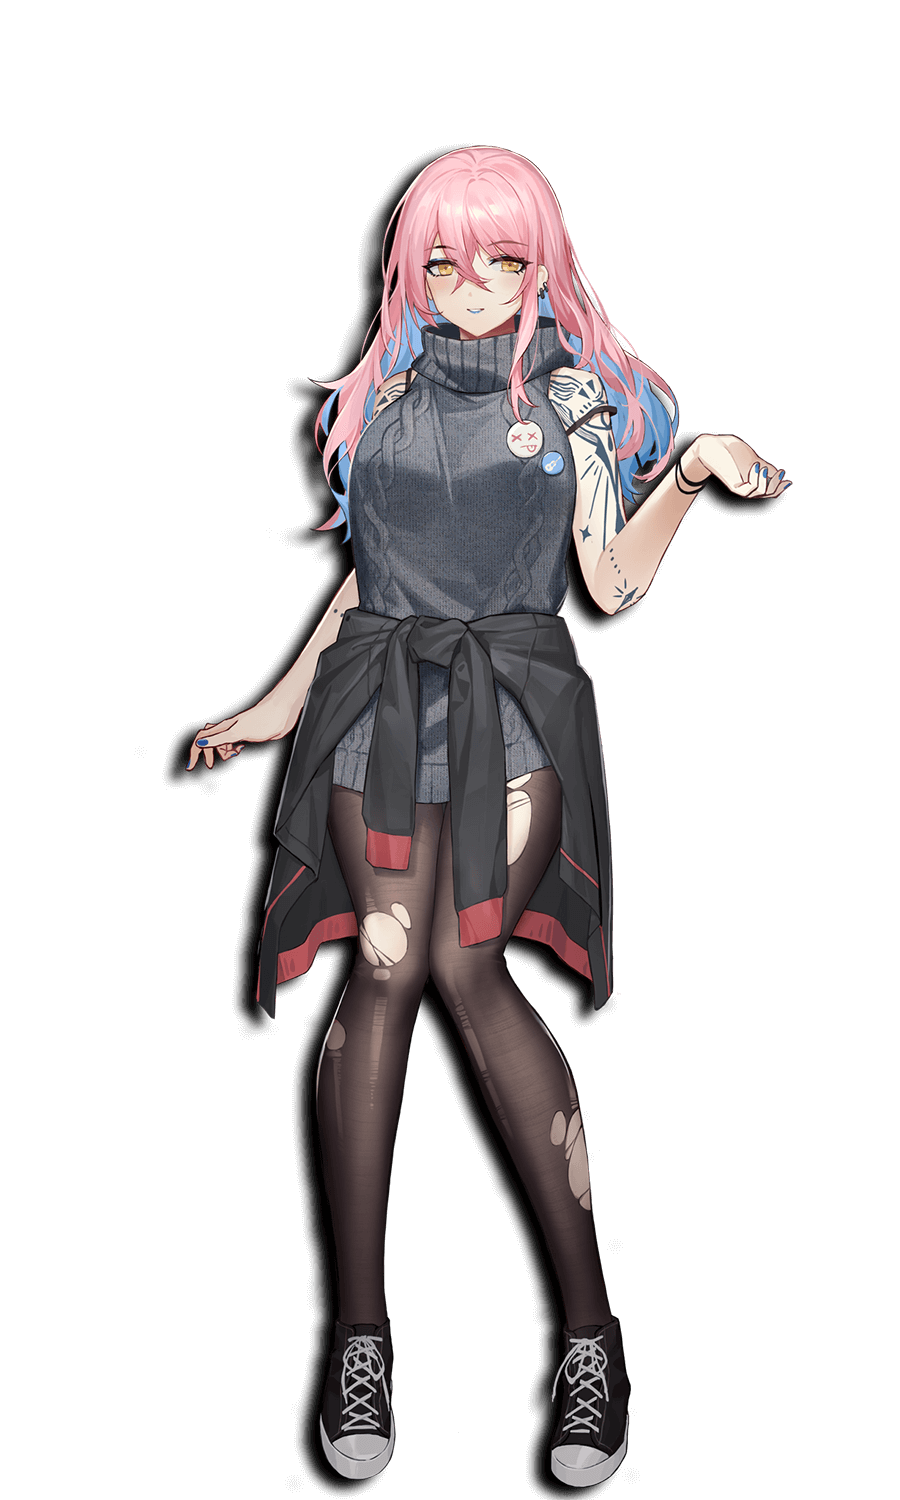
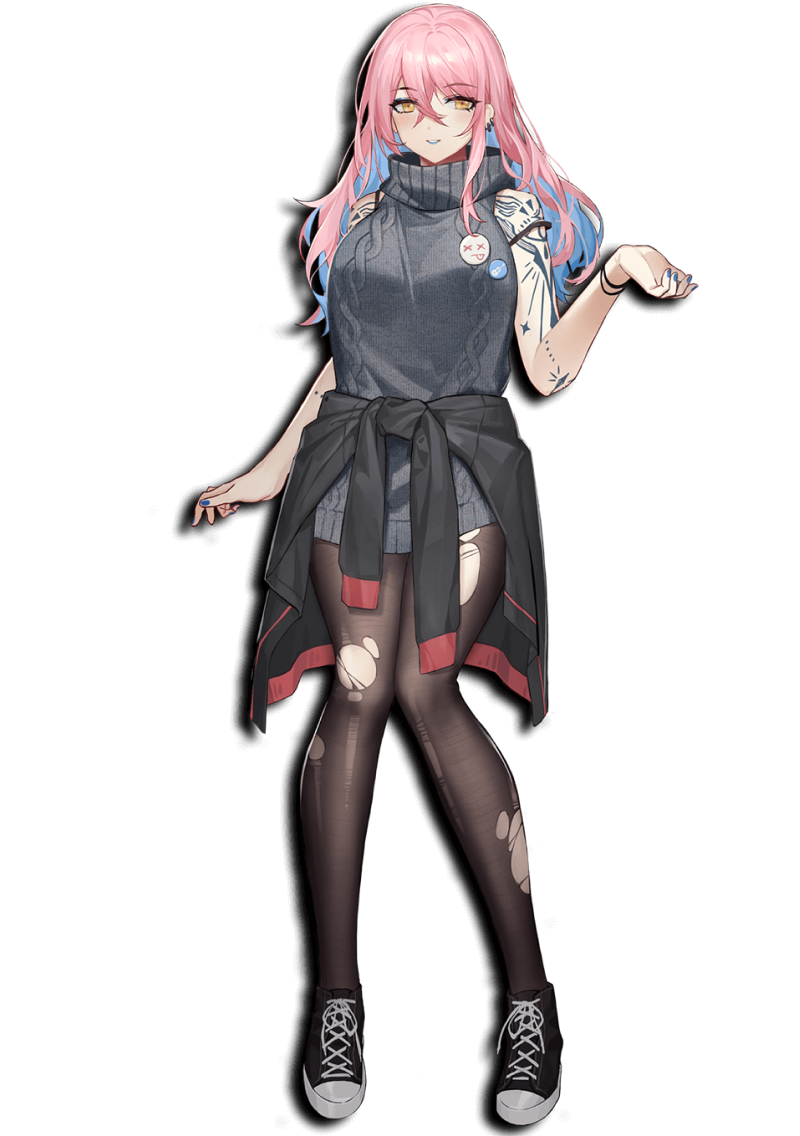
:bento: 更新了角色页立绘素材

Changed region(s): [[0.1875, 0.0, 0.875, 1.0]]

diff --git a/src/pages/characters.vue b/src/pages/characters.vue
@@ -328,7 +328,7 @@ watchEffect(() => {
 .character-painting {
   position: absolute;
   width: 800px;
-  height: calc(800px / 900 * 1500);
+  height: calc(800px / 800 * 1136);
   background-position: center;
   background-repeat: no-repeat;
   background-size: contain;
@@ -457,7 +457,7 @@ watchEffect(() => {
   .character-painting {
     position: absolute;
     width: 576px;
-    height: calc(576px / 900 * 1500);
+    height: calc(576px / 800 * 1136);
     background-position: center;
     background-repeat: no-repeat;
     background-size: contain;
@@ -494,7 +494,7 @@ watchEffect(() => {
   .character-painting {
     position: absolute;
     width: 512px;
-    height: calc(512px / 900 * 1500);
+    height: calc(512px / 800 * 1136);
     background-position: center;
     background-repeat: no-repeat;
     background-size: contain;
